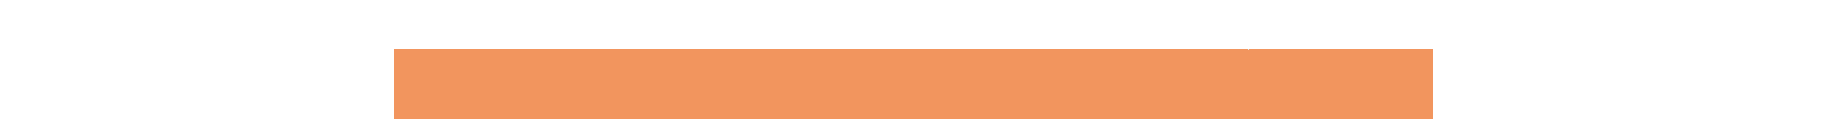
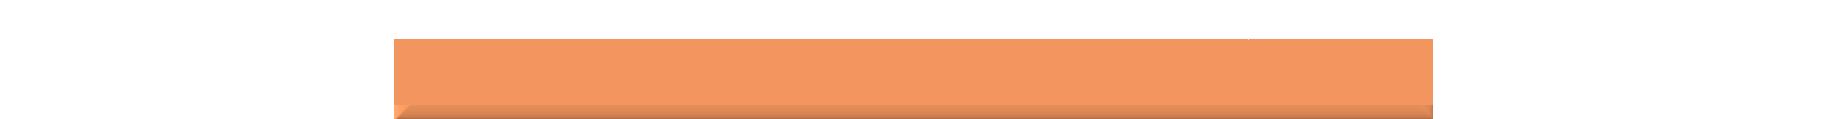
Mobile header img check

Changed region(s): [[0.2184, 0.3277, 0.8112, 0.4286], [0.2184, 0.9328, 0.8112, 1.0]]

diff --git a/style.css b/style.css
@@ -97,14 +97,10 @@ a {
 #pueblos-header {
   z-index: 2;
   margin-top: 160px;
-  display: flex;
-  flex-direction: column;
   position: sticky;
   top: 31px;
 }
-#pueblos-header img {
-  width: 100%;
-}
+
 #pueblos-header-text {
   z-index: 1;
   width: 100%;
@@ -112,6 +108,10 @@ a {
   position: sticky;
   top: 100px;
   font-size: 2.8rem;
+}
+#pueblos-header img {
+  width: 100%;
+
 }
 #pueblos-main {
   height: 500px;
@@ -122,7 +122,6 @@ a {
   top: -375px;
   flex-direction: column;
   background-size: cover;
- 
   background-position: bottom;
   background-repeat: no-repeat;
   background-image: linear-gradient(360deg, rgba(255, 255, 255, 1), rgb(255, 255, 255, .5)), url(img/gallery/pueblo/Copper-Pueblo-Sculpture-MAIN.png);
@@ -200,6 +199,25 @@ a {
   margin-bottom: 10px;
   font-size: 1rem;
 }
+#nature-header {
+  z-index: 1;
+  margin-top: 200px;
+  display: flex;
+  flex-direction: column;
+}
+#nature-header-text {
+  z-index: 1;
+  width: 100%;
+  margin-top: 80px;
+  margin-bottom: 30px;
+  position: sticky;
+  top: 100px;
+  font-size: 2.8rem;
+}
+#nature-header img {
+  width: 100%;
+  margin-top: -138px;
+}
 #nature-main {
   height: 500px;
   width: 100%;
@@ -213,26 +231,7 @@ a {
   background-repeat: no-repeat;
   background-image: linear-gradient(360deg, rgba(255, 255, 255, 1), rgb(255, 255, 255, .5)), url(img/gallery/wildlife/quail-alt.jpeg);
 }
-#nature-header {
-  z-index: 1;
-  margin-top: 200px;
-  display: flex;
-  flex-direction: column;
 
-}
-#nature-header-text {
-  z-index: 1;
-  width: 100%;
-  margin-top: 80px;
-  margin-bottom: 30px;
-  position: sticky;
-  top: 100px;
-  font-size: 2.8rem;
-}
-#nature-header img {
-  width: 100%;
-  margin-top: -132px;
-}
 
 
 #mirrors-main {

diff --git a/index.html b/index.html
@@ -96,7 +96,7 @@
           <span>Available in a unique variety of styles</span>
           <span>None larger than three feet</span>
         </div>
-        <div id="box-dropdown" onclick="toggleDropDown()">view pueblos +</div>
+        <div id="box-dropdown" onclick="toggleDropDown()">view nature +</div>
       </div>
 
       <div class="dropped" id="mirrors-dropped">
